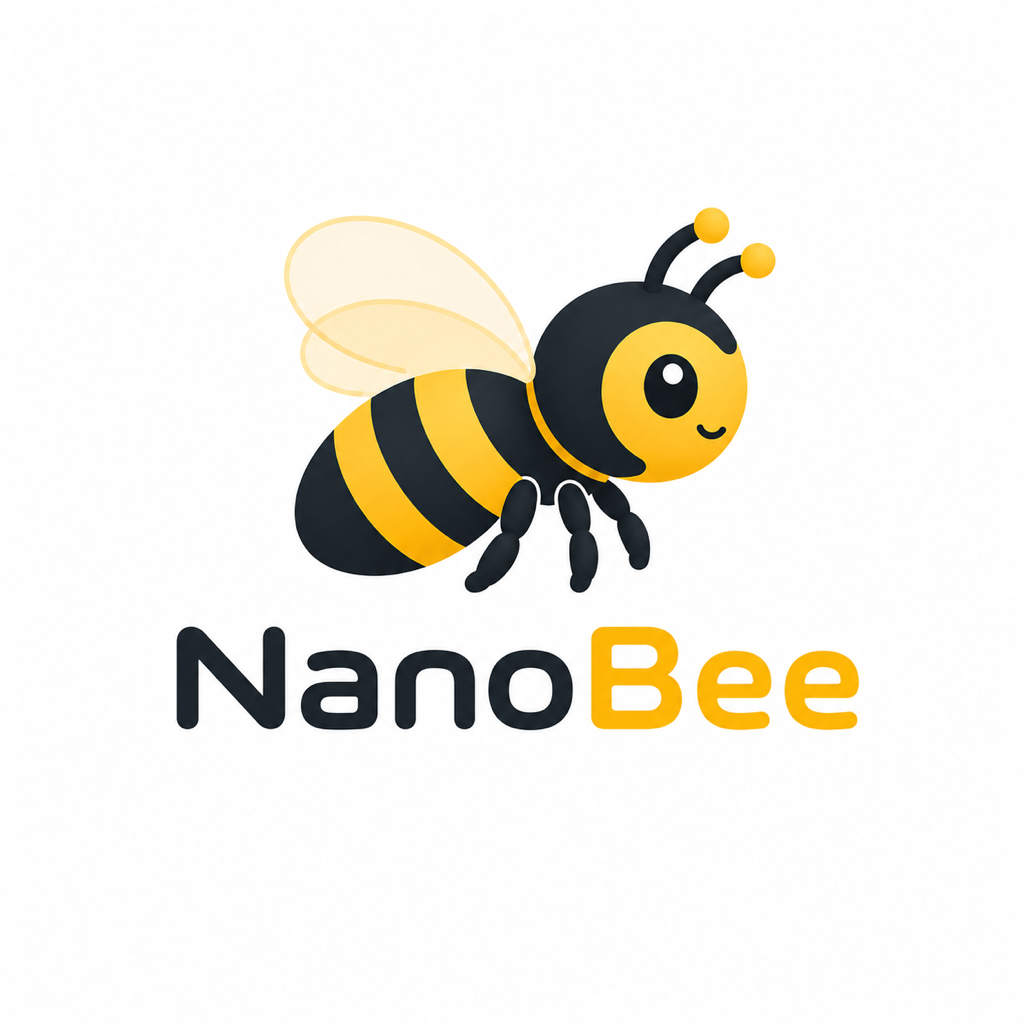
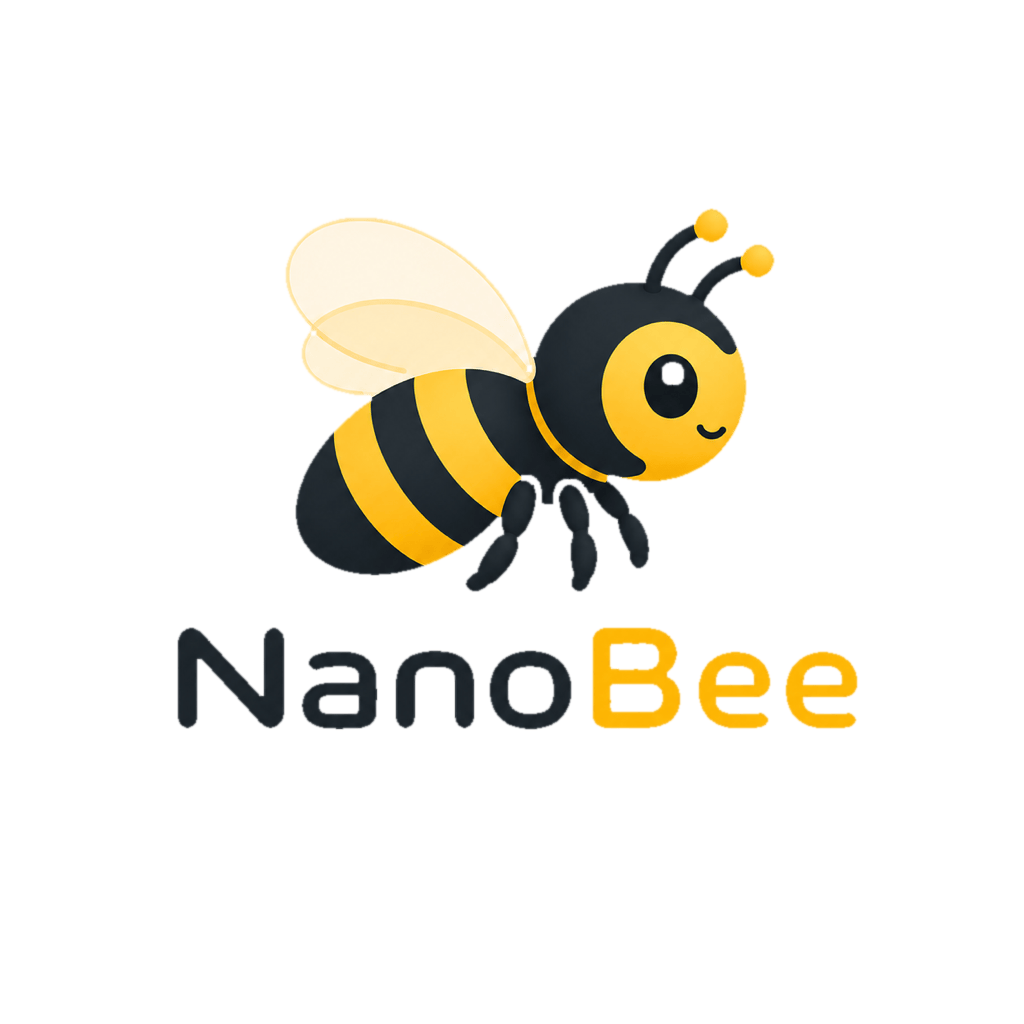
feat(brand): transparent mascot/lockups, compress PNGs, refresh bee glyph
Follow-ups to the honey-bee logo adoption:

- Transparency: mascot + both wordmark lockups now have transparent
  backgrounds (were baked white), so they sit cleanly on any surface.
  Removed via topological corner-floodfill (keeps the light wings) with a
  2px erode + feather to kill the white matte fringe; lockups also clear the
  white counters inside the letters. The app-icon tile keeps its cream bg.
- Compression: all brand PNGs run through pngquant (q88-100) + oxipng.
  Brand dir 2.0M -> 636K (icon 832K->312K, mascot ->84K, lockups ->40K/68K)
  with no visible banding.
- Icon glyph: redrew the inline `Icons.bee` line glyph (used at 11-28px in
  ~10 places) to echo the new mark — round head, spread wings, striped body,
  ball-tipped antennae — staying a monochrome currentColor stroke glyph.

Claude-Session: https://claude.ai/code/session_013nTvecg4teCe959Wmi9cGn

diff --git a/src/icons/icons.tsx b/src/icons/icons.tsx
@@ -52,7 +52,9 @@ export const Icons: Record<IconName, IconComponent> = {
   redo: (p) => <Svg {...p}><path d="M3 12a9 9 0 1 0 3-7M3 4v5h5" /></Svg>,
   more: (p) => <Svg {...p}><circle cx="5" cy="12" r="1.4" fill="currentColor" /><circle cx="12" cy="12" r="1.4" fill="currentColor" /><circle cx="19" cy="12" r="1.4" fill="currentColor" /></Svg>,
   check: (p) => <Svg {...p}><path d="M20 6 9 17l-5-5" /></Svg>,
-  bee: (p) => <Svg {...p}><ellipse cx="12" cy="14" rx="5" ry="6.5" /><path d="M12 9v11M8.5 11.5h7M8.2 16h7.6" /><path d="M9 6 6.5 3.5M15 6l2.5-2.5" /><circle cx="9.2" cy="6.2" r="1" /><circle cx="14.8" cy="6.2" r="1" /></Svg>,
+  // Friendly bee echoing the NanoBee mark: round head, spread wings, striped
+  // body and ball-tipped antennae. Antenna tips are filled with currentColor.
+  bee: (p) => <Svg {...p}><path d="M10.5 5.4C9.8 4 8.9 3.3 8 3.1" /><path d="M13.5 5.4C14.2 4 15.1 3.3 16 3.1" /><circle cx="7.7" cy="3" r="0.9" fill="currentColor" stroke="none" /><circle cx="16.3" cy="3" r="0.9" fill="currentColor" stroke="none" /><circle cx="12" cy="7.3" r="2.2" /><ellipse cx="6.6" cy="11.6" rx="3" ry="2.1" transform="rotate(-25 6.6 11.6)" /><ellipse cx="17.4" cy="11.6" rx="3" ry="2.1" transform="rotate(25 17.4 11.6)" /><ellipse cx="12" cy="15.4" rx="4.5" ry="5.7" /><path d="M7.9 14h8.2" /><path d="M8.6 18h6.8" /></Svg>,
   panelRight: (p) => <Svg {...p}><rect x="3" y="4" width="18" height="16" rx="2" /><path d="M15 4v16" /></Svg>,
   panelLeft: (p) => <Svg {...p}><rect x="3" y="4" width="18" height="16" rx="2" /><path d="M9 4v16" /></Svg>,
   list: (p) => <Svg {...p}><path d="M9 6h12M9 12h12M9 18h12" /><circle cx="4.5" cy="6" r="0.9" fill="currentColor" /><circle cx="4.5" cy="12" r="0.9" fill="currentColor" /><circle cx="4.5" cy="18" r="0.9" fill="currentColor" /></Svg>,

diff --git a/public/brand/README.md b/public/brand/README.md
@@ -13,9 +13,13 @@ geometric enough to remain recognizable down to 32px.
 | --- | --- |
 | `nanobee-logo-icon.png` | Primary app icon — cream rounded-square tile with the honey bee (1024×1024). Source of truth for the scaled sizes below. |
 | `nanobee-logo-512/256/128/64/32.png` | Pre-scaled square icon sizes derived from the primary icon tile (favicons + apple-touch-icon). |
-| `nanobee-mascot.png` | Standalone bee mark on a plain white background (1024×1024) — for white surfaces, page headers, onboarding and marketing. |
-| `nanobee-lockup-horizontal.png` | Horizontal lockup: bee + `NanoBee` wordmark, side by side (1200×800) — headers, docs, README banners. |
-| `nanobee-lockup-vertical.png` | Vertical lockup: bee above the `NanoBee` wordmark (1024×1024) — splash / centered layouts. |
+| `nanobee-mascot.png` | Standalone bee mark on a **transparent** background (1024×1024) — for white surfaces, page headers, onboarding and marketing. |
+| `nanobee-lockup-horizontal.png` | Horizontal lockup: bee + `NanoBee` wordmark, side by side, **transparent** background (1200×800) — headers, docs, README banners. |
+| `nanobee-lockup-vertical.png` | Vertical lockup: bee above the `NanoBee` wordmark, **transparent** background (1024×1024) — splash / centered layouts. |
+
+All PNGs are optimized (pngquant + oxipng). Only the app-icon tile keeps its
+cream background; the mascot and both lockups are transparent so they sit
+cleanly on any surface.
 
 **Brand colors:**
 - Honey / amber yellow — `#FEC826` (body stripes, the `Bee` in the wordmark)

diff --git a/src/icons/icons.md b/src/icons/icons.md
@@ -17,6 +17,14 @@ Inline SVG line-icon set (Lucide-class, 24x24, rounded caps) ported 1:1 from the
 
 ## Change history
 
+### 2026-07-01 — redrew the `bee` glyph to match the new logo
+- **Motivation**: the brand mark became a friendly cartoon honey bee; the old
+  symmetric line-bee (plain striped oval + antennae) no longer echoed it.
+- **Key decision**: keep it a monochrome stroke glyph (used at 11–28px in many
+  places), but add a round head, spread wings and ball-tipped antennae so it
+  reads as the same bee. Antenna tips are `fill="currentColor"` dots so they
+  inherit the icon color (white on the honey tile, brand color inline).
+
 ### 2026-06-15 — added `stop` icon
 - **Motivation**: the chat composer's stop-generating button needed a filled
   rounded-square glyph (added to `IconName` in `types.ts` too).
